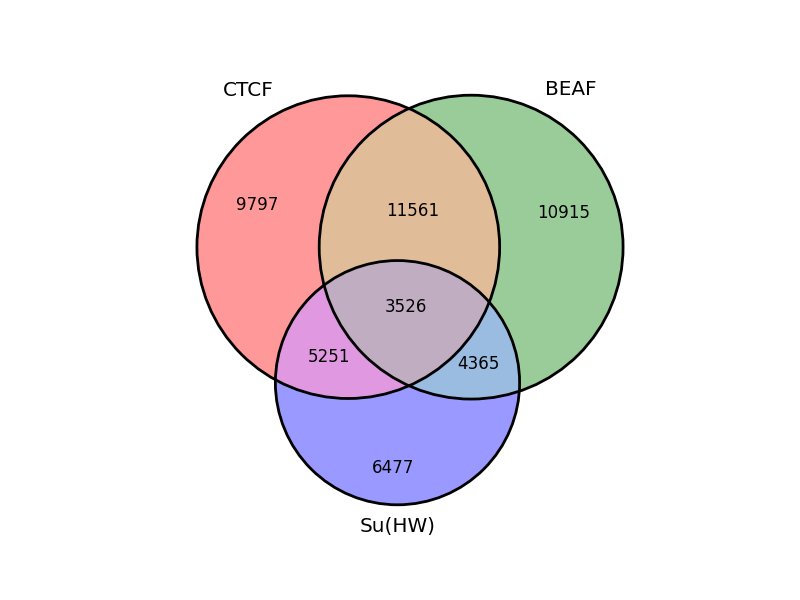
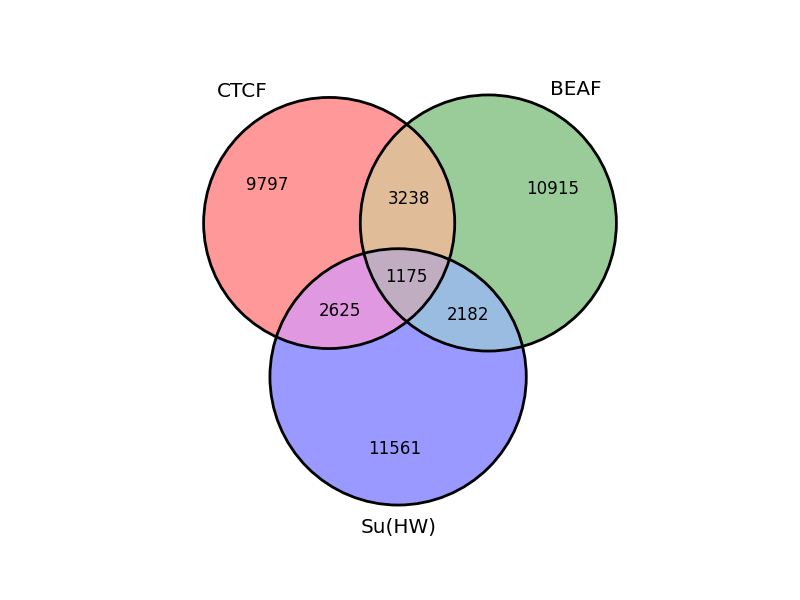
Updated venn

diff --git a/day4/day4-lunch/dy4lunchfinal.py b/day4/day4-lunch/dy4lunchfinal.py
@@ -36,6 +36,7 @@ file_bits(arr_BEAF, sys.argv[3])
 arr_Su = file_arrays(sys.argv[1])
 file_bits(arr_Su, sys.argv[4])
 
+total = 0
 count2 = 0
 count3 = 0
 count4 = 0
@@ -53,38 +54,55 @@ for filename in sys.argv[2:]:
         
         sl2 = arr_CTCF[chrom][start:end] 
         if len(sl2) > 0:
+            total += 1
             count2 += (np.sum(sl2)/len(sl2) > 0.5)
         
         sl3 = arr_BEAF[chrom][start:end] 
         if len(sl3) > 0:
+            total += 1
             count3 += (np.sum(sl3)/len(sl3) > 0.5)
         
         sl4 = arr_Su[chrom][start:end]
         if len(sl4) > 0:
+            total += 1
             count4 += (np.sum(sl4)/len(sl4) > 0.5)
         
         sl5 = sl2 & sl3      
         if len(sl5) > 0:
+            total += 1
             count5 += (np.sum(sl5)/len(sl5) > 0.5)
         
         sl6 = sl2 & sl4
         if len(sl6) > 0:
+            total += 1
             count6 += (np.sum(sl6)/len(sl6) > 0.5)
         
         sl7 = sl3 & sl4
-        if len(sl7) > 0: 
+        if len(sl7) > 0:
+            total += 1 
             count7 += (np.sum(sl7)/len(sl7) > 0.5)
         
         sl8 = sl2 & sl3 & sl4
         if len(sl8) > 0:
+            total += 1
             count8 += (np.sum(sl8)/len(sl8) > 0.5)
 
+CTCF_1 = count2
+BEAF_1 = count3
+SU_1 = count4 
+CTCFBEAF = int(count5 / 2)
+CTCFSU = int(count6 / 2)
+BEAFSU = int(count7 / 2)
+CTCFBEAFSU = int(count8 / 3)
+
+#A, B, AB, C, AC, BC, ABC
+
 plt.figure()
-v = venn3(subsets= (count2, count3, count4, count5, count6, count7, count8), set_labels = ("CTCF", "BEAF", "Su(HW)"))
-c = venn3_circles(subsets = (count2, count3, count4, count5, count6, count7, count8))
+v = venn3(subsets= (CTCF_1, BEAF_1, CTCFBEAF, SU_1, CTCFSU, BEAFSU, CTCFBEAFSU), set_labels = ("CTCF", "BEAF", "Su(HW)"))
+c = venn3_circles(subsets = (CTCF_1, BEAF_1, CTCFBEAF, SU_1, CTCFSU, BEAFSU, CTCFBEAFSU))
 plt.savefig("d4lunchvenn.png")
 
-print "Count(C-len): %d, Count(B-len): %d, Count4(S-len): %d, Count(C-B): %d, Count(C-S): %d, Count(B-S): %d,  Count(C-S-B): %d" % (count2, count3, count4, count5, count6, count7, count8)
+print "Total: %d, Count(C-len): %d, Count(B-len): %d, Count4(S-len): %d, Count(C-B): %d, Count(C-S): %d, Count(B-S): %d,  Count(C-S-B): %d" % (total, count2, count3, count4, count5, count6, count7, count8)
         
         
         
